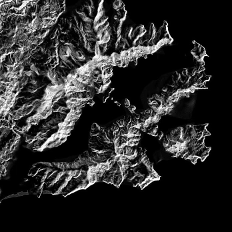
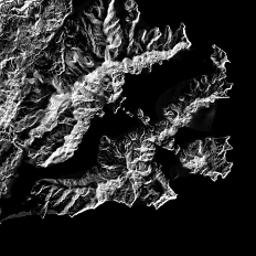
Compute_complanarity with displacement mapping

diff --git a/src/learn_dx11/tess/compute_complanarity_example.cpp b/src/learn_dx11/tess/compute_complanarity_example.cpp
@@ -1,6 +1,7 @@
 #include "learn_dx11/tess/compute_complanarity_example.h"
 
 #include <cassert>
+#include "cg/data/image.h"
 #include "learn_dx11/tess/terrain_grid_model.h"
 
 using namespace cg;
@@ -11,14 +12,15 @@ namespace tess {
 
 Compute_complanarity_example::Compute_complanarity_example(Render_context& rnd_ctx)
 	: Example(rnd_ctx),
-	_viewpoint_position(0.0f, 8.0f, 16.0f)
+	_viewpoint_position(8.0f, 8.0f, 24.0f)
 {
-	_model_matrix = scale_matrix<mat4>(float3(20.0f));
+	_model_matrix = scale_matrix<mat4>(float3(30.0f));
 	_view_matrix = view_matrix(_viewpoint_position, float3::zero);
 
 	init_cbuffers();
 	init_shaders();
 	init_geometry(); // vertex shader bytecode is required to create vertex input layout
+	init_textures();
 	init_pipeline_state();
 
 	on_viewport_resize(rnd_ctx.viewport_size());
@@ -36,7 +38,7 @@ void Compute_complanarity_example::init_cbuffers()
 	const float tess_arr[12] = {
 		camepa_position_ms.x, camepa_position_ms.y, camepa_position_ms.z, camepa_position_ms.w,
 		0.1f * distance, 1.5f * distance, 0.0f, 0.0f,	// distance_min_max
-		1.0f, 32.0f, 0.0f, 0.0f,						// lod_min_max
+		1.0f, 16.0f, 0.0f, 0.0f,						// lod_min_max
 	};
 	_tess_control_cbuffer = make_cbuffer(_device, sizeof(float) * std::extent<decltype(tess_arr)>::value);
 	_device_ctx->UpdateSubresource(_tess_control_cbuffer.ptr, 0, nullptr, tess_arr, 0, 0);
@@ -44,7 +46,7 @@ void Compute_complanarity_example::init_cbuffers()
 
 void Compute_complanarity_example::init_geometry()
 {
-	Terrain_grid_model terrain_model(8, 8);
+	Terrain_grid_model terrain_model(16, 16);
 	_index_count = UINT(terrain_model.index_count());
 
 	// vertex buffer
@@ -120,6 +122,44 @@ void Compute_complanarity_example::init_shaders()
 	_shader_set = Hlsl_shader_set(_device, shader_desc);
 }
 
+void Compute_complanarity_example::init_textures()
+{
+	using cg::data::Image_2d;
+	using cg::data::byte_count;
+
+	// displacement map
+	Image_2d image_displ("../data/learn_dx11/terrain_displacement_map.png", 1, false);
+
+	D3D11_TEXTURE2D_DESC tex_displ_desc = {};
+	tex_displ_desc.Width = image_displ.size().width;
+	tex_displ_desc.Height = image_displ.size().height;
+	tex_displ_desc.MipLevels = 1;
+	tex_displ_desc.ArraySize = 1;
+	tex_displ_desc.Format = DXGI_FORMAT_R8_UNORM;
+	tex_displ_desc.SampleDesc.Count = 1;
+	tex_displ_desc.SampleDesc.Quality = 0;
+	tex_displ_desc.Usage = D3D11_USAGE_IMMUTABLE;
+	tex_displ_desc.BindFlags = D3D11_BIND_SHADER_RESOURCE;
+	D3D11_SUBRESOURCE_DATA tex_displ_data = {};
+	tex_displ_data.pSysMem = image_displ.data();
+	tex_displ_data.SysMemPitch = image_displ.size().width * byte_count(image_displ.pixel_format());
+	tex_displ_data.SysMemSlicePitch = image_displ.byte_count();
+
+	HRESULT hr = _device->CreateTexture2D(&tex_displ_desc, &tex_displ_data, &_tex_displacement_map.ptr);
+	assert(hr == S_OK);
+
+	hr = _device->CreateShaderResourceView(_tex_displacement_map.ptr, nullptr, &_tex_srv_displacement_map.ptr);
+	assert(hr == S_OK);
+
+	D3D11_SAMPLER_DESC sampler_desc = {};
+	sampler_desc.Filter = D3D11_FILTER_MIN_MAG_MIP_LINEAR;
+	sampler_desc.AddressU = D3D11_TEXTURE_ADDRESS_CLAMP;
+	sampler_desc.AddressV = D3D11_TEXTURE_ADDRESS_CLAMP;
+	sampler_desc.AddressW = D3D11_TEXTURE_ADDRESS_CLAMP;
+	hr = _device->CreateSamplerState(&sampler_desc, &_linear_sampler.ptr);
+	assert(hr == S_OK);
+}
+
 void Compute_complanarity_example::on_viewport_resize(const cg::uint2& viewport_size)
 {
 	update_projection_matrix(viewport_size.aspect_ratio());
@@ -154,6 +194,8 @@ void Compute_complanarity_example::setup_pipeline_state()
 	// domain shader
 	_device_ctx->DSSetShader(_shader_set.domain_shader(), nullptr, 0);
 	_device_ctx->DSSetConstantBuffers(0, 1, &_pvm_matrix_cbuffer.ptr);
+	_device_ctx->DSSetShaderResources(0, 1, &_tex_srv_displacement_map.ptr);
+	_device_ctx->DSSetSamplers(0, 1, &_linear_sampler.ptr);
 	// pixel shader
 	_device_ctx->PSSetShader(_shader_set.pixel_shader(), nullptr, 0);
 

diff --git a/src/learn_dx11/tess/compute_complanarity_example.h b/src/learn_dx11/tess/compute_complanarity_example.h
@@ -43,6 +43,8 @@ private:
 
 	void init_shaders();
 
+	void init_textures();
+
 	void setup_pipeline_state();
 
 	void setup_pvm_matrix();
@@ -63,6 +65,9 @@ private:
 	Com_ptr<ID3D11Buffer> _vertex_buffer;
 	Com_ptr<ID3D11Buffer> _index_buffer;
 	Com_ptr<ID3D11InputLayout> _input_layout;
+	Com_ptr<ID3D11Texture2D> _tex_displacement_map;
+	Com_ptr<ID3D11ShaderResourceView> _tex_srv_displacement_map;
+	Com_ptr<ID3D11SamplerState> _linear_sampler;
 	UINT _index_count;
 };
 
